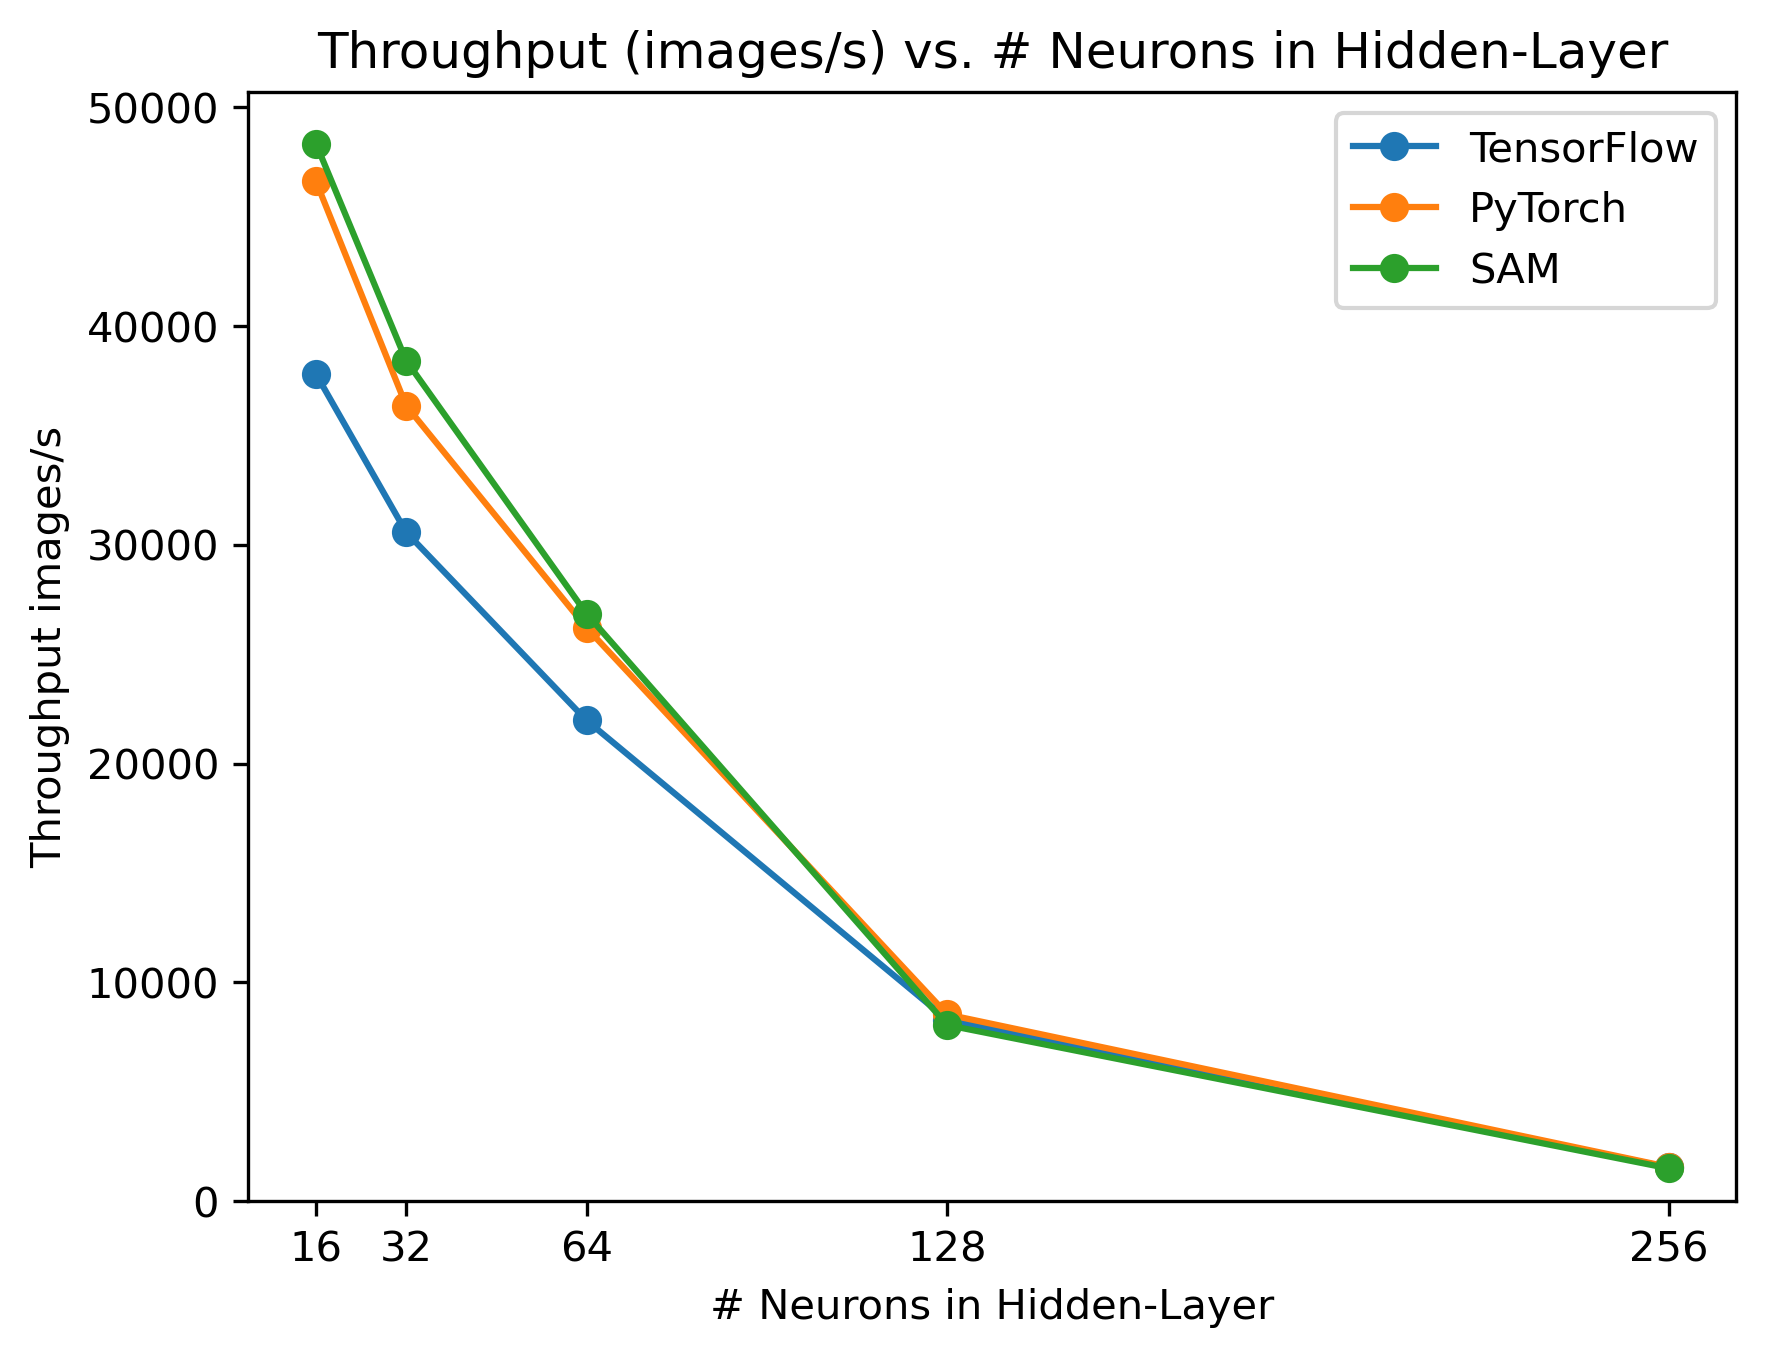
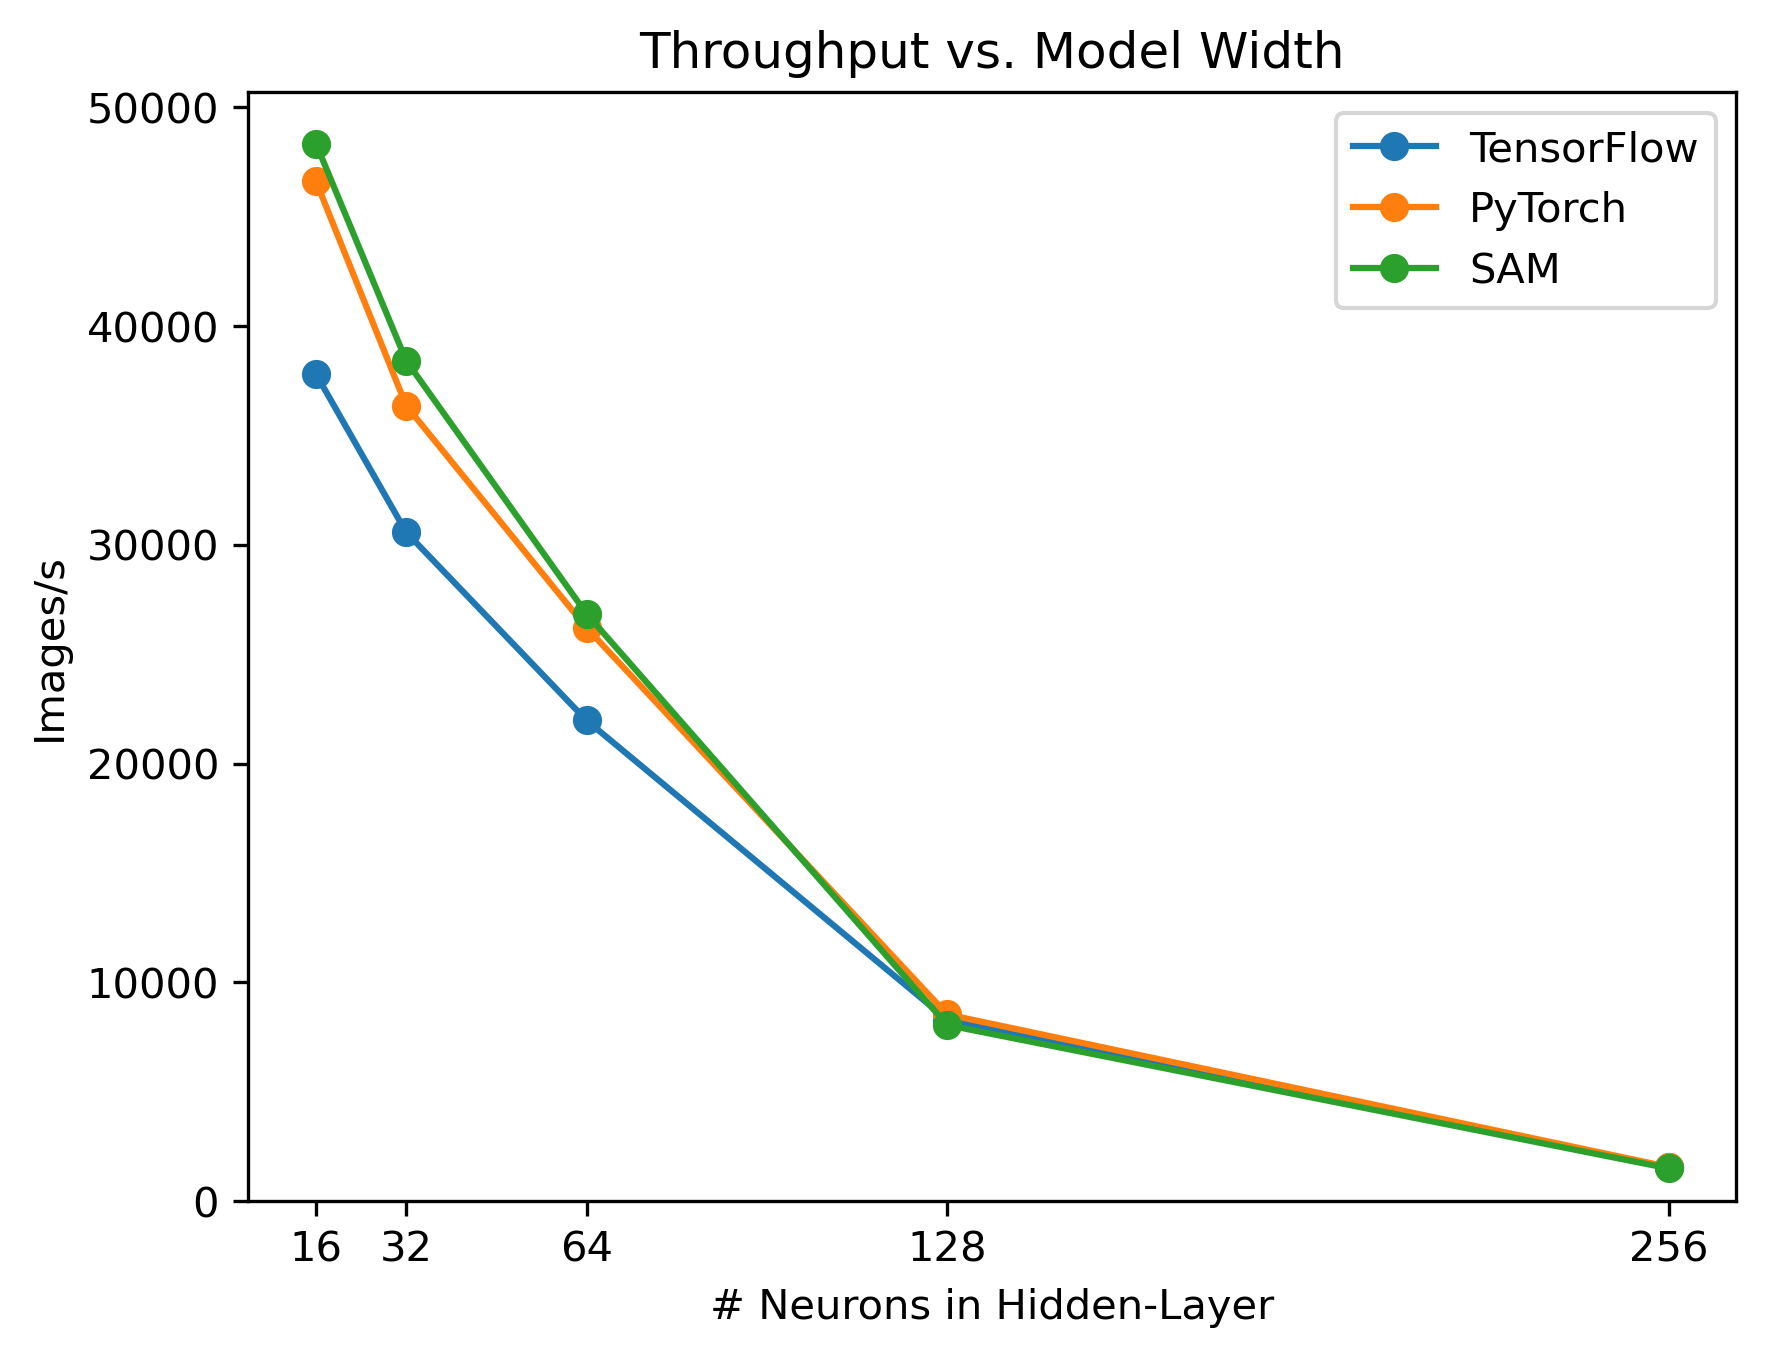
small updates

Changed region(s): [[0.1869, 0.0, 0.9343, 0.0619], [0.0, 0.3095, 0.0623, 0.619]]

diff --git a/src/tensorflow/main.py b/src/tensorflow/main.py
@@ -1,15 +1,23 @@
 #!/usr/bin/env python3
-import os, glob, json, random, time, csv
+import os
+import glob
+import json
+import random
+import time
+import csv
 from datetime import datetime
+
 os.environ["TF_CPP_MIN_LOG_LEVEL"] = "2"
 os.environ["TF_CPP_VLOG_LEVEL"] = "99"
 os.environ["CUDA_VISIBLE_DEVICES"] = ""
-os.environ["OMP_NUM_THREADS"]         = "1"
-os.environ["MKL_NUM_THREADS"]         = "1"
-os.environ["TF_NUM_INTRAOP_THREADS"]  = "1"
-os.environ["TF_NUM_INTEROP_THREADS"]  = "1"
+os.environ["OMP_NUM_THREADS"] = "1"
+os.environ["MKL_NUM_THREADS"] = "1"
+os.environ["TF_NUM_INTRAOP_THREADS"] = "1"
+os.environ["TF_NUM_INTEROP_THREADS"] = "1"
+
 import numpy as np
 import tensorflow as tf
+
 import config
 import src.mnist as mnist
 from src.data_loader import load_dataset
@@ -43,13 +51,14 @@ def main():
     strategy = tf.distribute.MultiWorkerMirroredStrategy()
     num_workers = strategy.num_replicas_in_sync
 
-    partitions, _ = load_dataset()
+    partitions, test_data = load_dataset()
     local_part = partitions[task_id]
 
     training_data = []
-    for img, one_hot_label in local_part:
+    for img, label in local_part:
         x = img.astype(np.float32).reshape(-1, 1)
-        y = one_hot_label.astype(np.float32)
+        y = label.astype(np.float32).reshape(-1, 1)
+
         training_data.append((x, y))
 
     ckpt_dir = os.path.join(os.getcwd(), 'src', 'tensorflow', 'checkpoints')
@@ -57,10 +66,13 @@ def main():
 
     with strategy.scope():
         network = mnist.Network(config.NETWORK_ARCHITECTURE)
-        tf_weights = [tf.Variable(w.astype(np.float32), trainable=False)for w in network.weights]
-        tf_biases = [tf.Variable(b.astype(np.float32), trainable=False)for b in network.biases]
-        ckpt = tf.train.Checkpoint(**{f"w{i}": v for i, v in enumerate(tf_weights)},
-                                   **{f"b{j}": v for j, v in enumerate(tf_biases)})
+        tf_weights = [tf.Variable(w.astype(np.float32), trainable=False) for w in network.weights]
+        tf_biases  = [tf.Variable(b.astype(np.float32), trainable=False) for b in network.biases]
+
+        ckpt = tf.train.Checkpoint(
+            **{f"w{i}": v for i, v in enumerate(tf_weights)},
+            **{f"b{j}": v for j, v in enumerate(tf_biases)}
+        )
         manager = tf.train.CheckpointManager(ckpt, ckpt_dir, max_to_keep=None)
 
         latest = manager.latest_checkpoint
@@ -99,7 +111,12 @@ def main():
         for j, v in enumerate(tf_biases):
             network.biases[j] = v.numpy()
 
-        network.SGD(training_data,epochs=config.SGD_EPOCHS,mini_batch_size=config.MINI_BATCH_SIZE,eta=config.ETA)
+        network.SGD(
+            training_data=training_data,
+            epochs=config.SGD_EPOCHS,
+            mini_batch_size=config.MINI_BATCH_SIZE,
+            eta=config.ETA
+        )
 
         for i, v in enumerate(tf_weights):
             v.assign(network.weights[i])
@@ -140,6 +157,25 @@ def main():
         with open(timing_csv, 'a', newline='') as f:
             writer = csv.writer(f)
             writer.writerow([f"{system_overhead:.6f}", f"{(compute_time_total/num_workers):.6f}"])
+
+        correct = 0
+        total   = 0
+
+        for img, label in test_data:
+            x_test = img.astype(np.float32).reshape(-1, 1)
+            output = network.feedforward(x_test)
+            predicted_label = np.argmax(output)
+            true_label = int(label)
+
+            if predicted_label == true_label:
+                correct += 1
+            total += 1
+
+        if total > 0:
+            accuracy = correct / total
+            print(f"Test accuracy: {accuracy * 100:.2f}% ({correct}/{total})")
+        else:
+            print("Warning: test_data is empty; cannot compute accuracy.")
 
     os._exit(0)
 

diff --git a/src/pytorch/main.py b/src/pytorch/main.py
@@ -11,16 +11,17 @@ import src.mnist as mnist
 total_computation_time = 0.0
 fault_p = config.FAULT_P
 
-def ddp_setup():
+def distributed_setup():
     init_process_group(backend="gloo", init_method="env://")
 
 class Trainer:
-    def __init__(self, model, data, local_epochs, batch_size, save_every, snapshot_path):
+    def __init__(self, model, data, test_data,local_epochs, batch_size, save_every, snapshot_path):
         self.device = torch.device("cpu")
         self.rank = get_rank()
         self.world_size = get_world_size()
         self.model = model
         self.data = data
+        self.test_data = test_data
         self.local_epochs = local_epochs
         self.batch_size = batch_size
         self.save_every = save_every
@@ -65,6 +66,10 @@ class Trainer:
             comp_time = t1 - t0
             total_computation_time += comp_time
 
+            if self.rank == 0:
+                correct = self.model.evaluate(self.test_data)
+                accuracy = correct / len(self.test_data) if len(self.test_data) > 0 else 0.0
+
             if (r + 1) % self.save_every == 0:
                 path = f"{self.snapshot_path}_round{r+1}.pt"
                 torch.save({
@@ -73,7 +78,7 @@ class Trainer:
                     "round":    r + 1
                 }, path)
                 if self.rank == 0:
-                    print(f"[Round {r+1}] Avg Loss: {avg_loss:.6f} | Comp Time: {comp_time:.4f}s | Saved checkpoint {path}")
+                    print(f"[Round {r+1}] Avg Loss: {avg_loss:.6f} | Accuracy: {accuracy * 100:.2f}% | Comp Time: {comp_time:.4f}s | Saved checkpoint {path}")
 
 def main():
     TIMING_CSV = os.path.join(os.getcwd(), "src/pytorch/timings/epoch_timings.csv")
@@ -82,7 +87,7 @@ def main():
             writer = csv.writer(f)
             writer.writerow(["system_overhead", "avg_comp_time_per_worker"])
 
-    parser = argparse.ArgumentParser(description="NumPy-DDP Federated MNIST")
+    parser = argparse.ArgumentParser(description="Distributed MNIST")
     parser.add_argument("--rounds", type=int, default=config.N_EPOCHS)
     parser.add_argument("--local_epochs", type=int, default=config.SGD_EPOCHS)
     parser.add_argument("--batch_size", type=int, default=config.MINI_BATCH_SIZE)
@@ -90,11 +95,11 @@ def main():
     parser.add_argument("--snapshot_path", type=str, default="src/pytorch/snapshot")
     args = parser.parse_args()
 
-    ddp_setup()
+    distributed_setup()
     rank = get_rank()
     world_size = get_world_size()
 
-    partitions, _ = load_dataset()
+    partitions, test_data = load_dataset()
     data = partitions[rank]
     if config.TRAIN_SAMPLE_SIZE > 0:
         data = data[: config.TRAIN_SAMPLE_SIZE]
@@ -123,6 +128,7 @@ def main():
     trainer = Trainer(
         model=model,
         data=data,
+        test_data=test_data,
         local_epochs=args.local_epochs,
         batch_size=args.batch_size,
         save_every=args.save_every,

diff --git a/config/config.py b/config/config.py
@@ -8,7 +8,7 @@ SGD_EPOCHS       = int(os.getenv("SGD_EPOCHS", 10))
 MINI_BATCH_SIZE  = int(os.getenv("MINI_BATCH_SIZE", 32))
 ETA              = float(os.getenv("ETA", 3.0))
 N_EPOCHS         = int(os.getenv("N_EPOCHS", 4))
-N_PARTITIONS     = int(os.getenv("N_PARTITIONS", 2))
+N_PARTITIONS     = int(os.getenv("N_PARTITIONS", 4))
 TEST_SAMPLE_SIZE = int(os.getenv("TEST_SAMPLE_SIZE", 1000))
 FAULT_P          = float(os.getenv("FAULT_P", 0.0))
 DEBUG            = os.getenv("DEBUG", "True") == "True"

diff --git a/scripts/plots/plotFaultP.py b/scripts/plots/plotFaultP.py
@@ -24,9 +24,9 @@ plt.plot(fault_p, tf_delta_times,marker='o',label='TensorFlow')
 plt.plot(fault_p, pt_delta_times, marker='o',label='PyTorch')
 plt.plot(fault_p, sam_delta_times,marker='o',label='SAM')
 
-plt.xlabel('Fault Probability')
-plt.ylabel('Throughput images/s')
-plt.title('Throughput (images/s) vs. Fault Probality')
+plt.xlabel('p')
+plt.ylabel('Images/s')
+plt.title('Throughput vs. Fault Probality')
 plt.legend()
 xaxis = [0, 0.01, 0.05, 0.1]
 plt.xticks(xaxis)

diff --git a/scripts/plots/plotWeakScaling.py b/scripts/plots/plotWeakScaling.py
@@ -21,9 +21,9 @@ plt.plot(datasetsizes, tf_times, marker='o', label='TensorFlow')
 plt.plot(datasetsizes, pt_times, marker='o', label='PyTorch')
 plt.plot(datasetsizes, sam_times, marker='o', label='SAM')
 
-plt.xlabel('Dataset Size)')
-plt.ylabel('Throughput images/s')
-plt.title('Throughput (images/s) vs. Dataset Size')
+plt.xlabel('Images')
+plt.ylabel('Images/s')
+plt.title('Throughput vs. Dataset Size')
 plt.legend()
 xaxis = [10000,30000,60000]
 plt.xticks(xaxis)

diff --git a/scripts/plots/plotHorizontalScaling.py b/scripts/plots/plotHorizontalScaling.py
@@ -28,8 +28,8 @@ plt.plot(neurons, pt_times, marker='o', label='PyTorch')
 plt.plot(neurons, sam_times, marker='o', label='SAM')
 
 plt.xlabel('# Neurons in Hidden-Layer')
-plt.ylabel('Throughput images/s')
-plt.title('Throughput (images/s) vs. # Neurons in Hidden-Layer')
+plt.ylabel('Images/s')
+plt.title('Throughput vs. Model Width')
 plt.legend()
 plt.xticks(neurons)
 plt.ylim(bottom=0)

diff --git a/scripts/plots/plotVerticalScaling.py b/scripts/plots/plotVerticalScaling.py
@@ -25,8 +25,8 @@ plt.plot(hiddenlayers, pt_times, marker='o', label='PyTorch')
 plt.plot(hiddenlayers, sam_times, marker='o', label='SAM')
 
 plt.xlabel('# Hidden-Layers')
-plt.ylabel('Throughput images/s')
-plt.title('Throughput (images/s) vs. # Hidden-Layers')
+plt.ylabel('Images/s')
+plt.title('Throughput vs. Model Depth')
 plt.legend()
 xaxis = [2,3,4,5]
 plt.xticks(xaxis)

diff --git a/scripts/plots/plotStrongScaling.py b/scripts/plots/plotStrongScaling.py
@@ -28,8 +28,8 @@ plt.plot(workers, pt_times, marker='o', label='PyTorch')
 plt.plot(workers, sam_times, marker='o', label='SAM')
 
 plt.xlabel('# Workers')
-plt.ylabel('Throughput images/s')
-plt.title('Throughput (images/s) vs. # Workers')
+plt.ylabel('Images/s')
+plt.title('Throughput vs. Workers')
 plt.legend()
 xaxis = [0,1,2,4,8,12]
 plt.xticks(xaxis)
